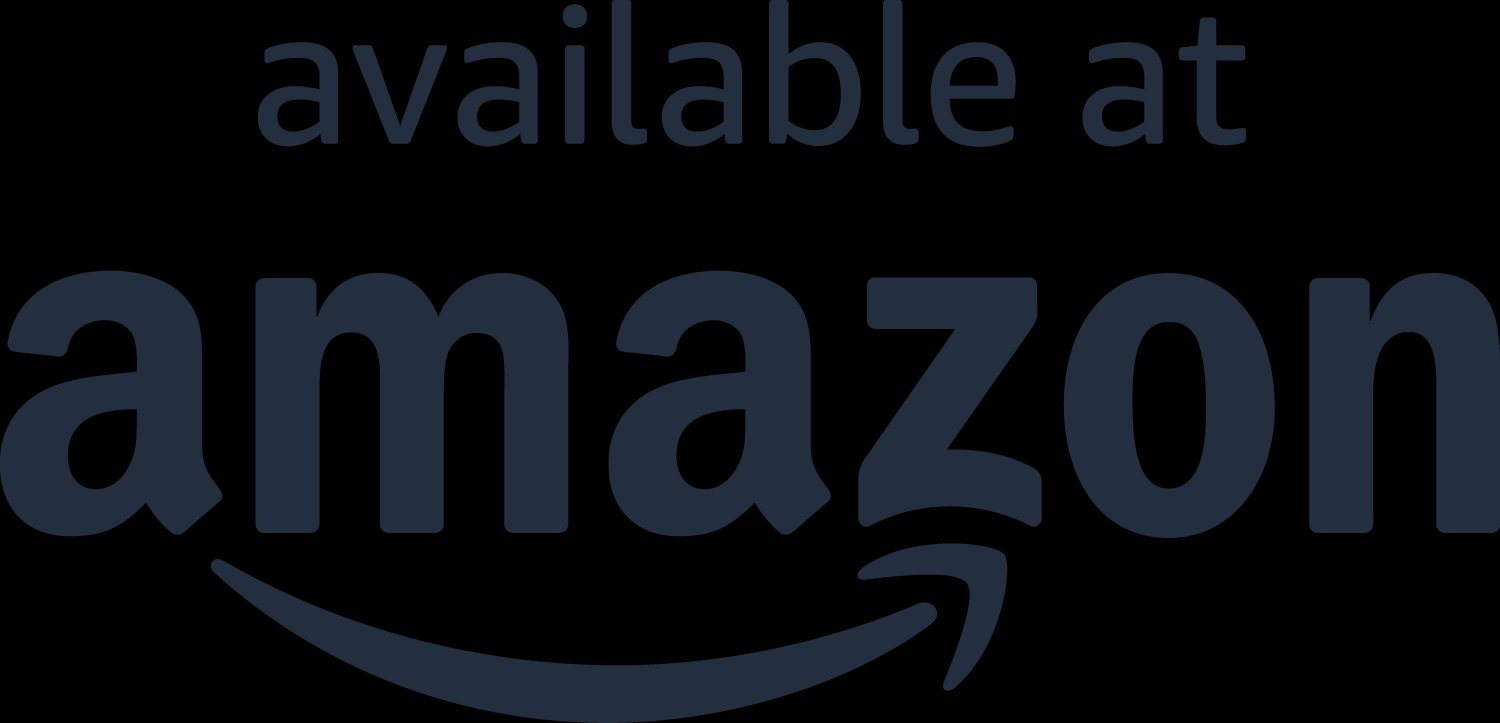
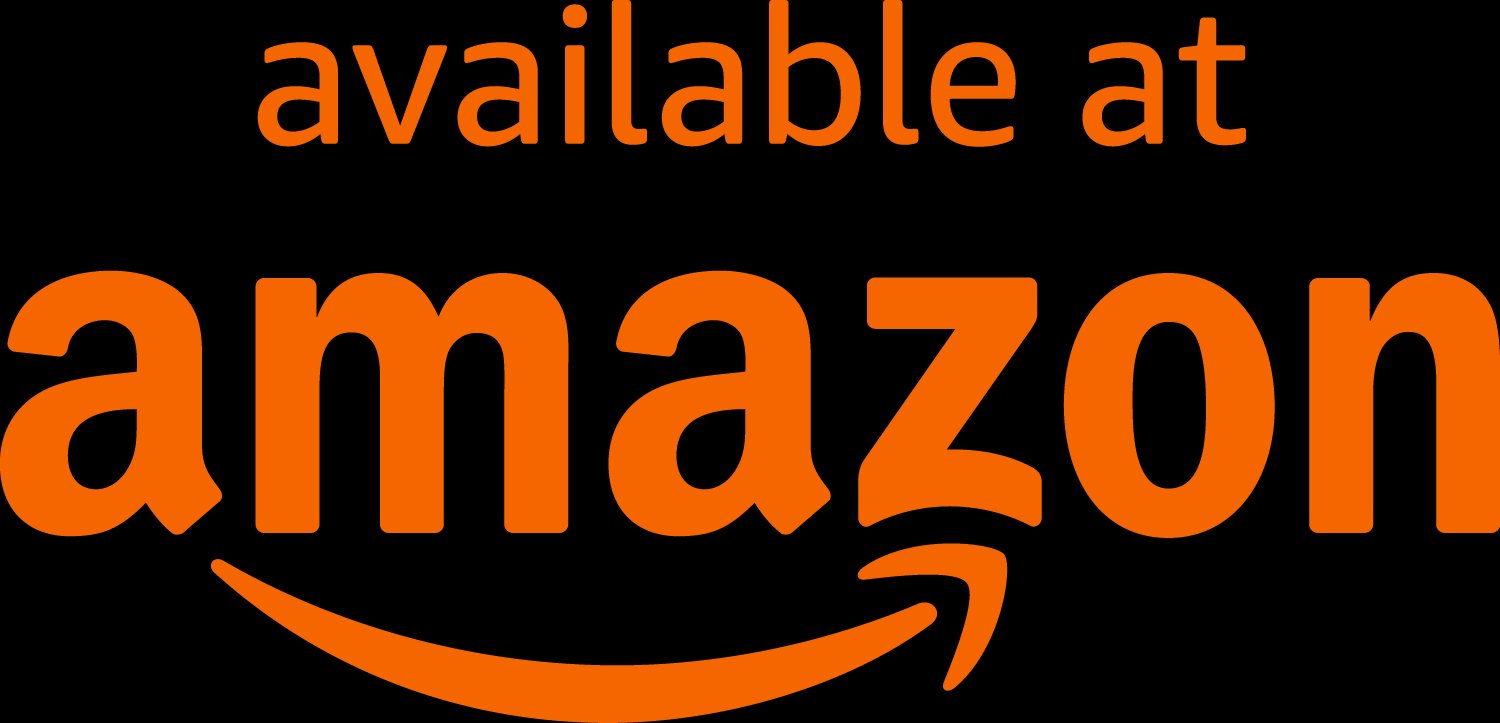
Fix: Amazon badge - orange/carrot version, larger size

diff --git a/components/ProductCard.tsx b/components/ProductCard.tsx
@@ -260,9 +260,9 @@ export default function ProductCard({
               <Image
                 src="/amazon-badge.png"
                 alt="Available at Amazon"
-                width={100}
-                height={40}
-                className="h-7 w-auto object-contain"
+                width={120}
+                height={48}
+                className="h-10 w-auto object-contain"
               />
 
               {/* CTA Button */}
